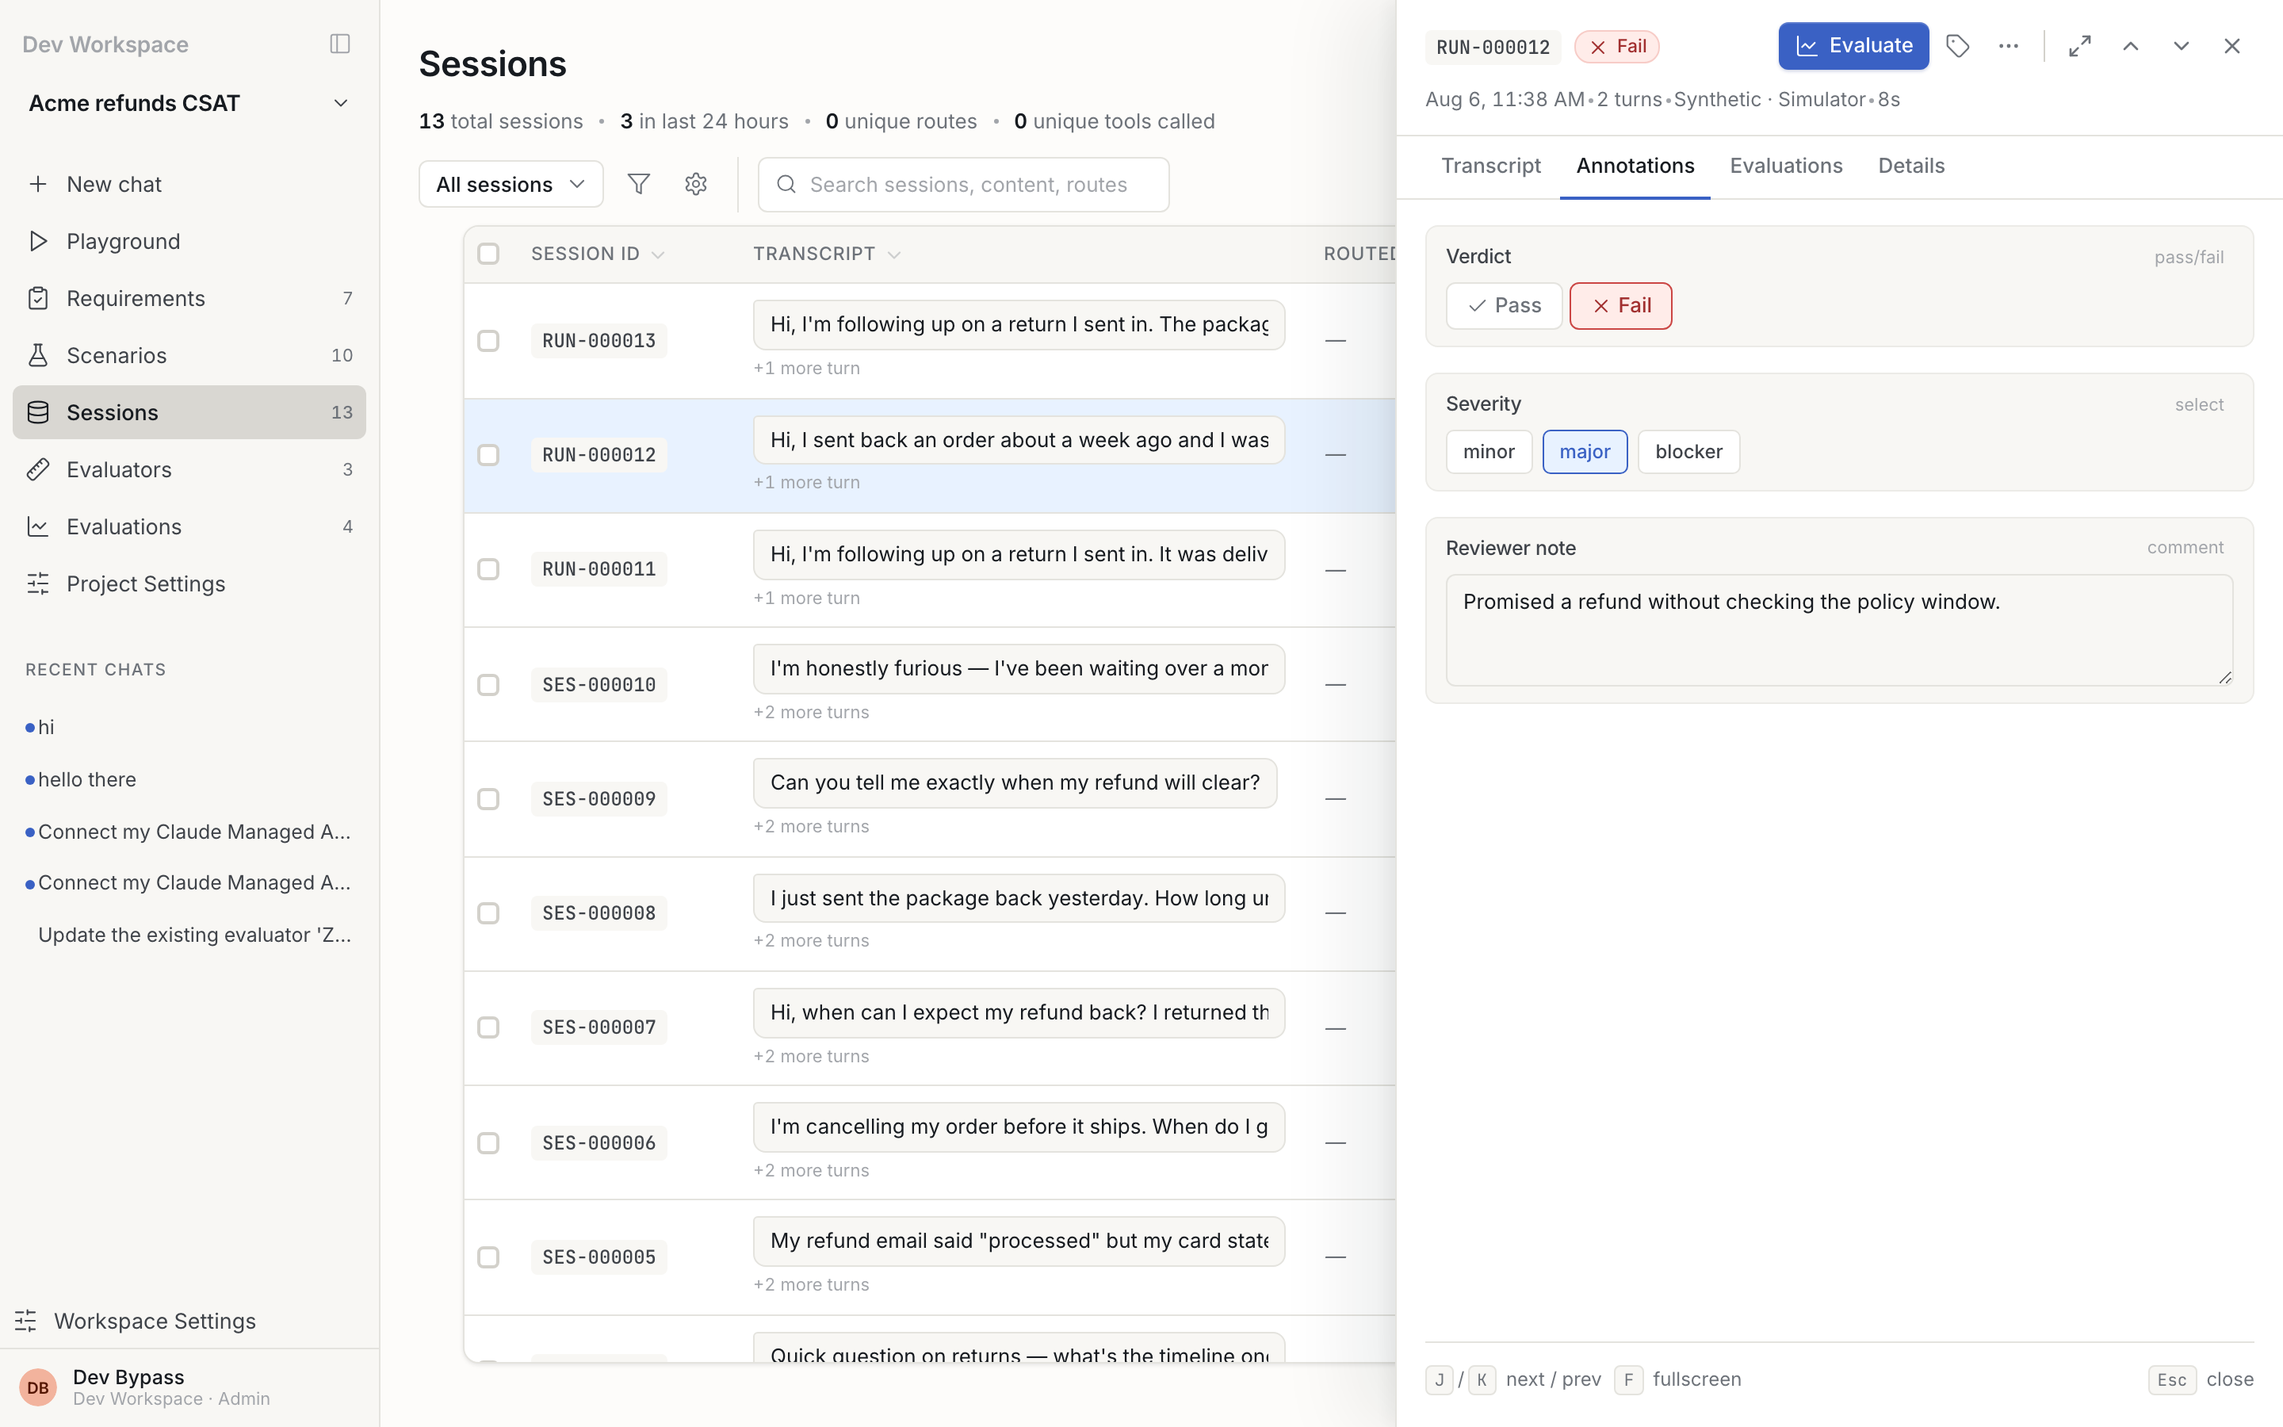
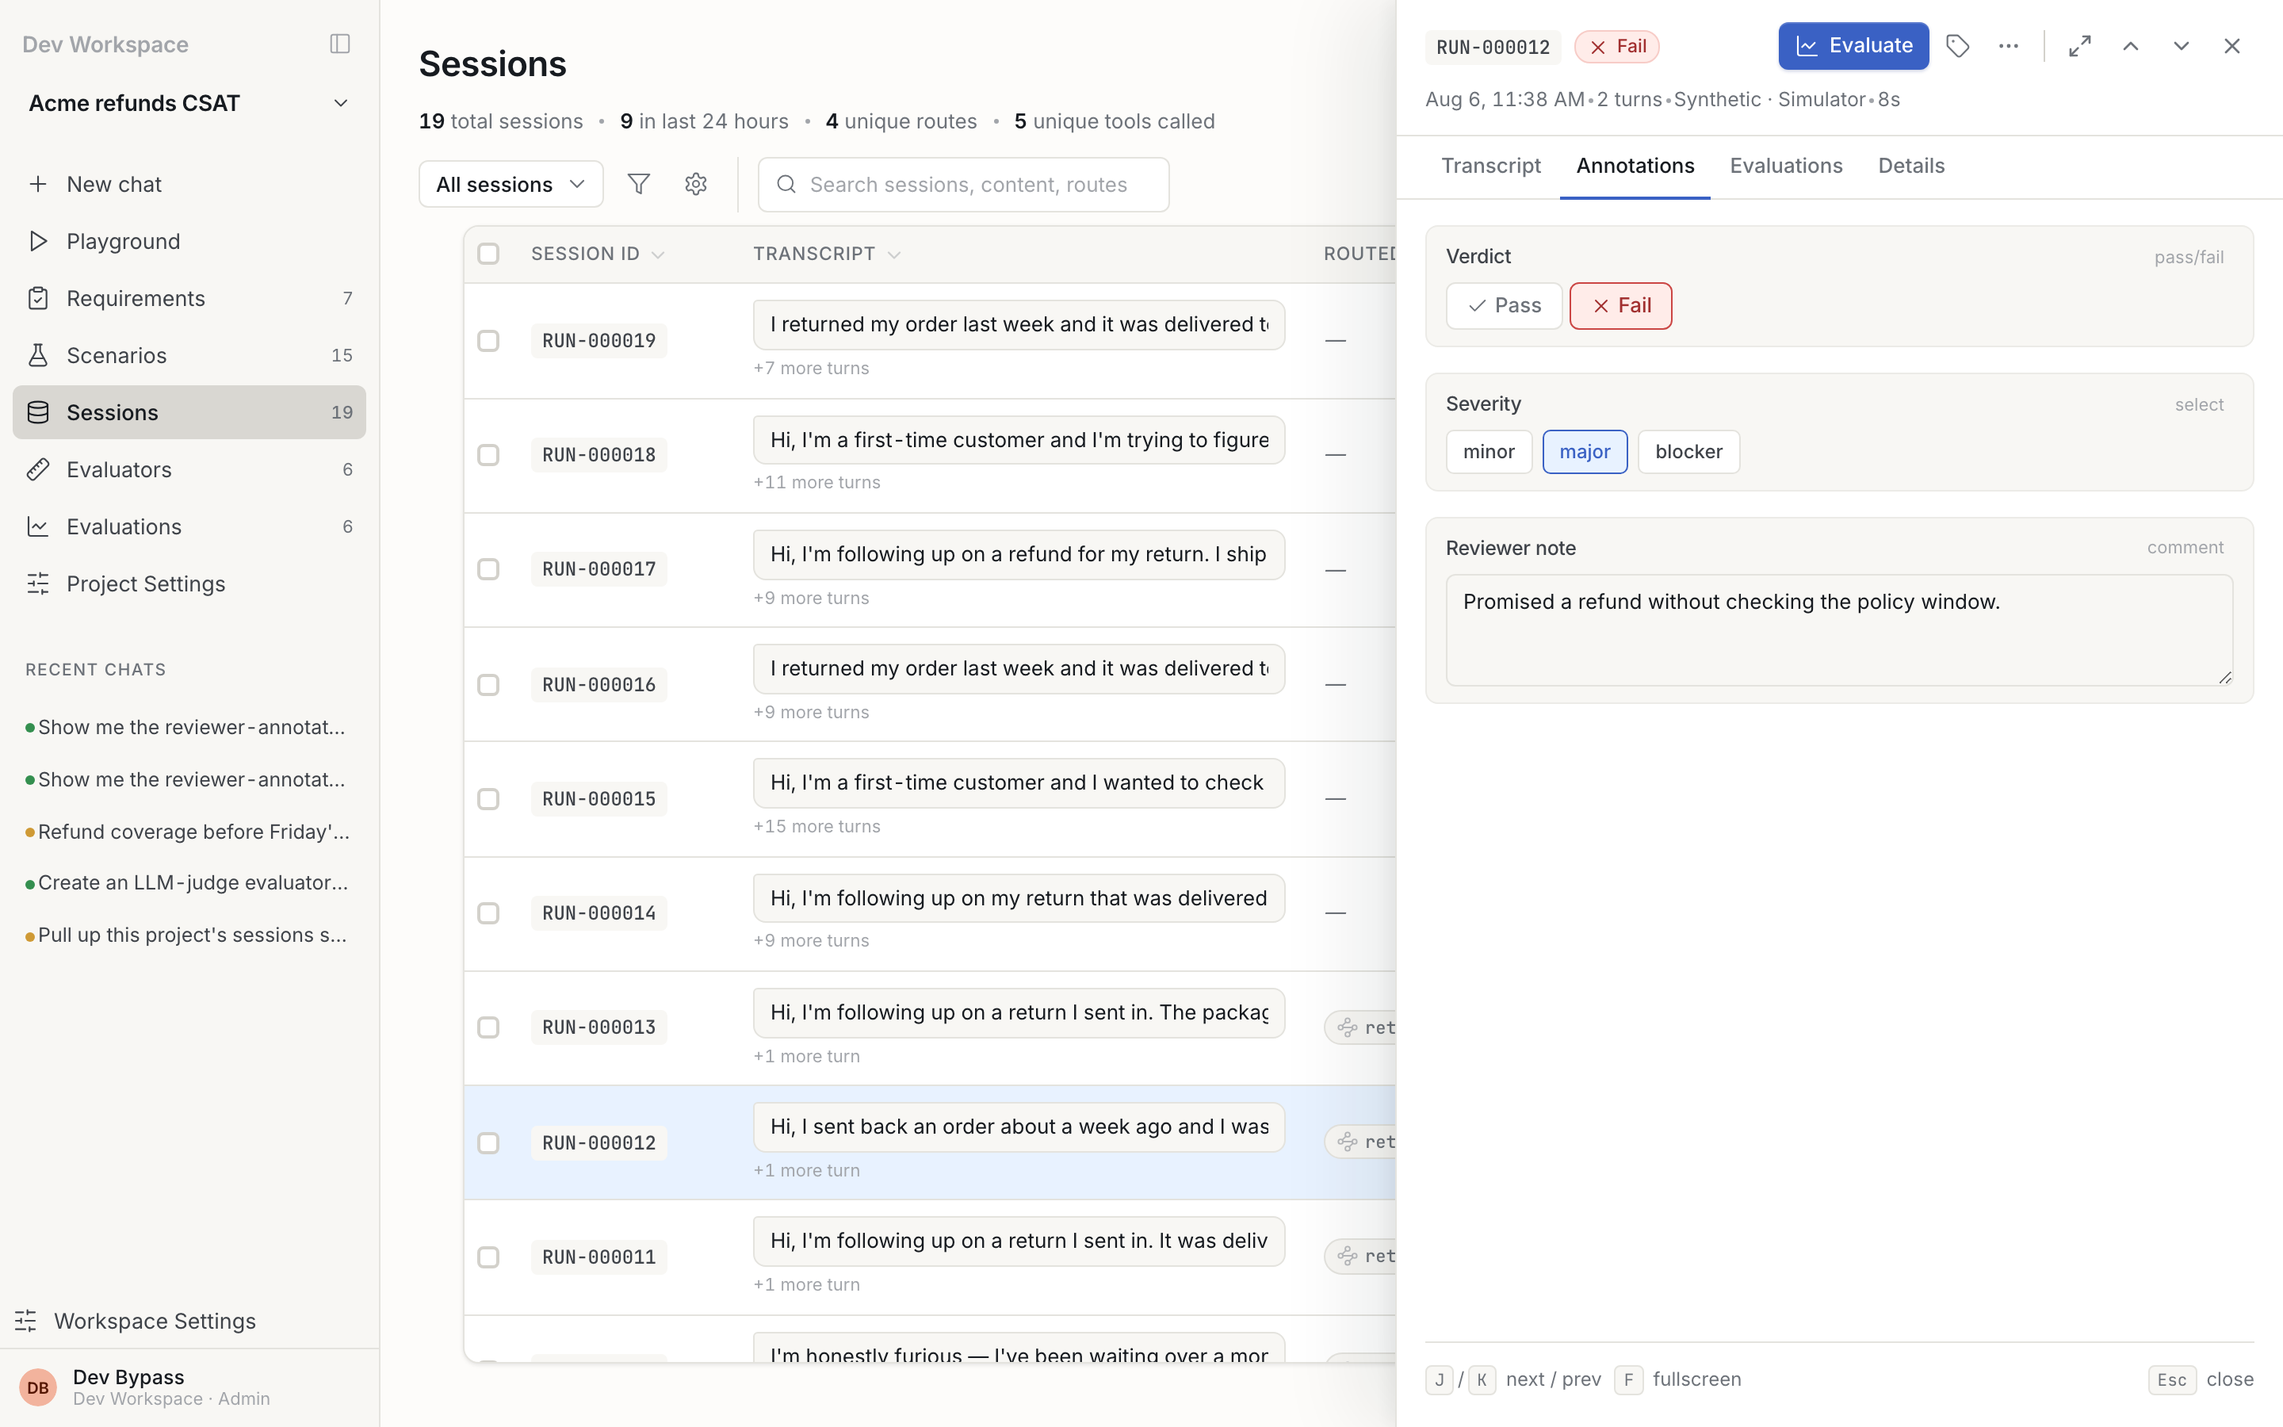
Capture inspection: fix three clipped/stale shots, drop six orphan images
A sweep of all 47 embedded images plus everything else in images/, opened one
at a time. Most of the set holds up. Four things did not.

Re-shot, with the script fixed so it cannot regress the same way:

- sessions-inline-verdict.png / session-fly-in-annotations.png. Both carried
  junk from the shared fixture in the Recent chats rail — threads literally
  titled "hi" and "hello there" — and a header reading "0 unique routes ·
  0 unique tools called" that the fixture outgrew weeks ago. Worse, the fly-in
  shot was targeted positionally: it clicked tbody tr nth(1), and new simulator
  runs have since landed at the top of the date-sorted table, so a re-run
  produced a picture of an empty Verdict, an empty Severity and the literal
  placeholder "Add a note…" — and passed. sessions-annotations.ts now resolves
  the annotated Session from the API and locates it by readable id, asserts the
  note textarea is non-empty before shooting, and sorts on the Verdict column
  so the inline shot leads with graded rows instead of six un-set toggles. The
  two junk chats were archived out of the fixture.

- tables-panels-header-menu.png. The DATE column ran off the right edge and the
  image ended mid-timestamp ("Aug 6, 11:4"), which reads as the product
  truncating its own data rather than as a viewport fold. That shot alone now
  runs at 1800px and asserts the last column header is wholly inside the frame.
  1600 was tried first and still cut it at x=1613.
[…]

diff --git a/captures/scripts/sessions-annotations.ts b/captures/scripts/sessions-annotations.ts
@@ -10,11 +10,60 @@
  * produces a technically-valid screenshot of a table with no annotation data in
  * it, which is exactly what the page is trying to illustrate.
  */
-import { test } from "@playwright/test";
-import { gotoSurface, assertTableHasRows, settle } from "../lib/helpers";
+import { expect, test } from "@playwright/test";
+import { firstProjectId, gotoSurface, assertTableHasRows, settle } from "../lib/helpers";
+
+const API = process.env.TRUSTAI_API_URL ?? "http://localhost:8000";
+
+/**
+ * Resolve an annotated Session from the API rather than trusting a row index.
+ *
+ * The first cut of this script clicked `tbody tr` nth(1) because row two
+ * happened to carry a verdict on the seed of the day. It does not any more:
+ * simulated runs land at the top of a date-sorted table, so nth(1) is now an
+ * un-annotated row and the fly-in shot came back showing an empty Verdict, an
+ * empty Severity and the literal placeholder "Add a note…". Positional
+ * targeting on a growing fixture is a screenshot that silently rots.
+ */
+async function annotatedSessionLabel(
+  projectId: string,
+  need: "full" | "any"
+): Promise<string> {
+  const res = await fetch(`${API}/v1/sessions?project_id=${projectId}&limit=200`);
+  if (!res.ok) throw new Error(`Cannot read sessions (HTTP ${res.status})`);
+  const body = await res.json();
+  const items = Array.isArray(body) ? body : (body.items ?? []);
+  const match = items.find((s: Record<string, unknown>) => {
+    const a = (s.annotations ?? {}) as Record<string, unknown>;
+    return need === "full"
+      ? a.verdict !== undefined && a.severity && a.reviewer_note
+      : a.verdict !== undefined;
+  });
+  if (!match) {
+    throw new Error(
+      "No Session in this project carries the annotations this shot is about. " +
+        "Populate them first: PUT /v1/sessions/:id/annotations/{verdict,severity,reviewer_note}."
+    );
+  }
+  return String(match.display_label ?? match.display_id);
+}
+
+/** Every Session that carries a human Verdict, by readable id. */
+async function gradedSessionLabels(projectId: string): Promise<string[]> {
+  const res = await fetch(`${API}/v1/sessions?project_id=${projectId}&limit=200`);
+  if (!res.ok) throw new Error(`Cannot read sessions (HTTP ${res.status})`);
+  const body = await res.json();
+  const items = Array.isArray(body) ? body : (body.items ?? []);
+  return items
+    .filter((s: Record<string, unknown>) =>
+      ((s.annotations ?? {}) as Record<string, unknown>).verdict !== undefined
+    )
+    .map((s: Record<string, unknown>) => String(s.display_label ?? s.display_id));
+}
 
 test("sessions inline verdict", async ({ page }) => {
   await page.setViewportSize({ width: 1440, height: 900 });
+  const projectId = await firstProjectId();
   await gotoSurface(page, "sessions", "table");
   await assertTableHasRows(page, 5);
   await settle(page);
@@ -43,6 +92,33 @@ test("sessions inline verdict", async ({ page }) => {
   }
   await settle(page);
 
+  // The table defaults to newest-first, and the newest Sessions are simulator
+  // runs nobody has graded yet — so the default order leads with six rows of
+  // un-set toggles and em-dashes, which is not what this Step is illustrating.
+  // Sort ON the Verdict column instead: that is the gesture a reviewer sweeping
+  // a batch actually makes, and it brings the graded rows to the top.
+  const graded = await gradedSessionLabels(projectId);
+  let onScreen = 0;
+  for (const direction of ["Sort descending", "Sort ascending"]) {
+    await page.getByRole("button", { name: "Column actions for Verdict", exact: true }).click();
+    await page.locator('[role="menu"]').last().waitFor({ state: "visible", timeout: 10_000 });
+    await page.getByText(direction, { exact: true }).first().click();
+    await settle(page);
+
+    // Prove the sort put graded rows in frame. A screenshot of ten un-set
+    // toggles passes every selector in this file and teaches nothing — so the
+    // check is against the ids the API says are graded, not against pixels.
+    const top = await page
+      .locator("table tbody tr")
+      .evaluateAll((rows) => rows.slice(0, 8).map((r) => r.textContent ?? ""));
+    onScreen = graded.filter((id) => top.some((t) => t.includes(id))).length;
+    if (onScreen >= 3) break;
+  }
+  expect(
+    onScreen,
+    "Neither sort direction brings graded rows to the top — the shot would be a column of empty toggles"
+  ).toBeGreaterThanOrEqual(3);
+
   // Belt and braces: prove nothing is clipped before shooting.
   const scrolled = await page.evaluate(() => {
     const el = document.querySelector("table")?.closest("[class*=overflow]") as HTMLElement | null;
@@ -56,17 +132,34 @@ test("sessions inline verdict", async ({ page }) => {
 
 test("session fly-in annotations tab", async ({ page }) => {
   await page.setViewportSize({ width: 1440, height: 900 });
+  const projectId = await firstProjectId();
+  // The shot's whole subject is a filled-in editor, so target the Session that
+  // actually carries all three values rather than whichever row is second today.
+  const label = await annotatedSessionLabel(projectId, "full");
+
   await gotoSurface(page, "sessions", "table");
   await assertTableHasRows(page, 5);
   await settle(page);
 
-  // Row 2 carries a Fail verdict, a Severity and a reviewer note.
-  await page.locator("table tbody tr").nth(1).click();
+  const row = page.locator("table tbody tr").filter({ hasText: label }).first();
+  await expect(
+    row,
+    `Session ${label} carries the annotations this shot needs but has no row in the table`
+  ).toBeVisible();
+  await row.click();
   await page.waitForTimeout(1800);
   const panel = page.locator('[role="dialog"]').last();
   await panel.getByText("Annotations", { exact: true }).click();
   await page.waitForTimeout(1200);
   await settle(page);
+
+  // A textarea still showing its placeholder is the failure this shot keeps
+  // regressing into, and it is invisible to every other assertion here.
+  const note = panel.locator("textarea").first();
+  await expect(
+    note,
+    "The Reviewer note is empty — the shot would be a picture of placeholder text"
+  ).not.toHaveValue("");
 
   await page.screenshot({ path: "../images/session-fly-in-annotations.png" });
 });

diff --git a/captures/scripts/tables-and-panels.ts b/captures/scripts/tables-and-panels.ts
@@ -44,21 +44,34 @@ import { firstProjectId, gotoSurface, assertTableHasRows, settle } from "../lib/
 const API = process.env.TRUSTAI_API_URL ?? "http://localhost:8000";
 const VIEWPORT = { width: 1440, height: 900 };
 
+/**
+ * The header-menu shot alone is taken wider.
+ *
+ * The Sessions table wants ~1460px of columns and gets ~1094 at 1440, so the
+ * DATE column ran off the right edge and the shipped image ended mid-timestamp
+ * ("Aug 6, 11:4"). Nothing in the frame told the reader that was a fold rather
+ * than the app truncating its own data. 1800 fits every column plus the trailing
+ * Add column affordance, and the assertion below proves it rather than assuming
+ * it — 1600 was tried first and still cut the last header at x=1613.
+ */
+const WIDE_VIEWPORT = { width: 1800, height: 900 };
+
 /** Assert an element is wholly inside the viewport before it is photographed. */
 async function assertFullyVisible(
   locator: import("@playwright/test").Locator,
-  what: string
+  what: string,
+  viewport: { width: number; height: number } = VIEWPORT
 ): Promise<void> {
   const box = await locator.boundingBox();
   if (!box) throw new Error(`${what} has no box — it is not rendered.`);
   const ok =
     box.x >= 0 &&
     box.y >= 0 &&
-    box.x + box.width <= VIEWPORT.width &&
-    box.y + box.height <= VIEWPORT.height;
+    box.x + box.width <= viewport.width &&
+    box.y + box.height <= viewport.height;
   if (!ok) {
     throw new Error(
-      `${what} is clipped by the viewport: ${JSON.stringify(box)} vs ${JSON.stringify(VIEWPORT)}`
+      `${what} is clipped by the viewport: ${JSON.stringify(box)} vs ${JSON.stringify(viewport)}`
     );
   }
 }
@@ -93,7 +106,7 @@ async function scenarioWithMostSessions(projectId: string): Promise<string> {
 const MENU_COLUMN = "Routed To";
 
 test("shared column header menu", async ({ page }) => {
-  await page.setViewportSize(VIEWPORT);
+  await page.setViewportSize(WIDE_VIEWPORT);
   await gotoSurface(page, "sessions", "table");
   await assertTableHasRows(page, 5);
   await settle(page);
@@ -105,14 +118,15 @@ test("shared column header menu", async ({ page }) => {
   });
   await assertFullyVisible(
     page.locator("table thead th").filter({ hasText: "SESSION ID" }).first(),
-    "The SESSION ID header"
+    "The SESSION ID header",
+    WIDE_VIEWPORT
   );
 
   const trigger = page.getByRole("button", {
     name: `Column actions for ${MENU_COLUMN}`,
     exact: true,
   });
-  await assertFullyVisible(trigger, `The "${MENU_COLUMN}" header menu trigger`);
+  await assertFullyVisible(trigger, `The "${MENU_COLUMN}" header menu trigger`, WIDE_VIEWPORT);
 
   // Sort first, then reopen the menu, so the shot also carries the page's
   // claim that the active direction is marked in the menu and the header
@@ -153,7 +167,16 @@ test("shared column header menu", async ({ page }) => {
       `The ${MENU_COLUMN} column menu is missing "${item}" — this is no longer the three-item menu the page describes`
     ).toBeVisible();
   }
-  await assertFullyVisible(menu, "The open column menu");
+  await assertFullyVisible(menu, "The open column menu", WIDE_VIEWPORT);
+
+  // The last column must be whole. A shot that ends on "Aug 6, 11:4" reads as
+  // the product truncating a timestamp, not as a viewport edge — which is the
+  // clipping failure captures/README warns about, arriving from the right.
+  await assertFullyVisible(
+    page.locator("table thead th").last(),
+    "The last column header",
+    WIDE_VIEWPORT
+  );
 
   await settle(page);
   await page.screenshot({ path: "../images/tables-panels-header-menu.png" });

diff --git a/captures/README.md b/captures/README.md
@@ -28,11 +28,10 @@ Default target is `http://localhost:3000`. Override the API base with `TRUSTAI_A
 
 ```bash
 pnpm capture:all          # everything
-pnpm capture:sessions     # sessions list + fly-in
+pnpm capture:sessions     # the two annotation surfaces
 pnpm capture:scenarios
 pnpm capture:evaluations
 pnpm capture:evaluators
-pnpm capture:welcome
 pnpm capture:sidebar
 pnpm capture:playground       # needs the stub agent below
 pnpm capture:trust-agent      # slow: drives real agent turns, see below
@@ -137,10 +136,35 @@ silently loses its leftmost column — usually the id a reader needs to orient.
 Hide the columns your fixture has no data for, then assert `scrollLeft === 0`
 before shooting. `scripts/sessions-annotations.ts` does both.
 
+## Never target a row by its index
+
+A row position is not a record. `sessions-annotations.ts` used to click
+`tbody tr` nth(1) because row two carried a verdict on the seed of the day; new
+simulator runs then landed at the top of the date-sorted table, nth(1) became an
+un-annotated row, and the shipped fly-in screenshot was a picture of an empty
+Verdict, an empty Severity and the literal placeholder "Add a note…". The test
+still passed. Resolve the record you mean from the API and locate the row by its
+readable id — and assert the value you came to photograph is actually on screen
+(`expect(note).not.toHaveValue("")`), because no selector in the file will notice
+placeholder grey.
+
+The same rule applies to sort order: if the shot is about annotated rows, assert
+that annotated ids are in the top of the frame, don't assume the default order
+puts them there.
+
 ## Verify by looking
 
 **Open every screenshot before committing it.** Exit code is not evidence — every failure mode
 above produces a passing test and a useless image.
+
+This has now been enforced once as a sweep across every shipped image, which
+found three classes of rot that no capture script can catch on its own: shots
+carrying junk from a shared fixture (chat threads titled "hi" and "hello there"
+in the Recent chats rail — archive them through
+`POST /paddington/projects/:id/tasks/:id/archive` before shooting), shots clipped
+by the right edge of the viewport rather than by the app, and images left in
+`images/` after the page that embedded them was rewritten. Check for the last one
+with a diff of `images/` against every `src="/images/…"` in the `.mdx` files.
 
 ## Fixture quality is per-surface
 

diff --git a/docs-plan/doc-kit/demo-tooling.md b/docs-plan/doc-kit/demo-tooling.md
@@ -30,11 +30,11 @@ cd captures && pnpm install && npx playwright install chromium   # first time
 pnpm capture:<surface>          # e.g. pnpm capture:sessions — writes to /images at 2× DPI
 ```
 
-Naming convention: `{concept}-{surface}-{variant}.{ext}` → `images/sessions-flyin-panel.png`. Embed:
+Naming convention: `{concept}-{surface}-{variant}.{ext}` → `images/session-fly-in-annotations.png`. Embed:
 
 ```mdx
 <Frame caption="The Sessions table with a row fly-in open">
-  <img src="/images/sessions-flyin-panel.png" alt="Sessions table fly-in" />
+  <img src="/images/session-fly-in-annotations.png" alt="Sessions table fly-in" />
 </Frame>
 ```
 
